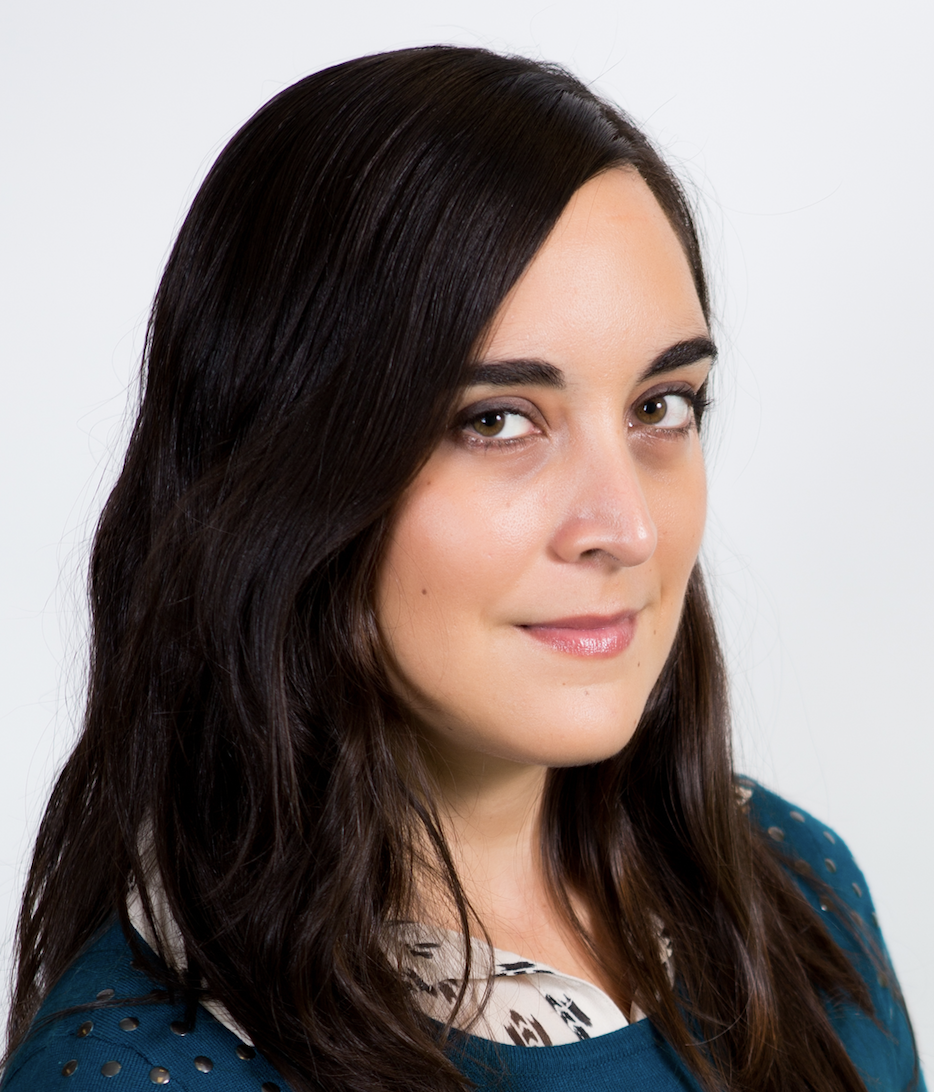
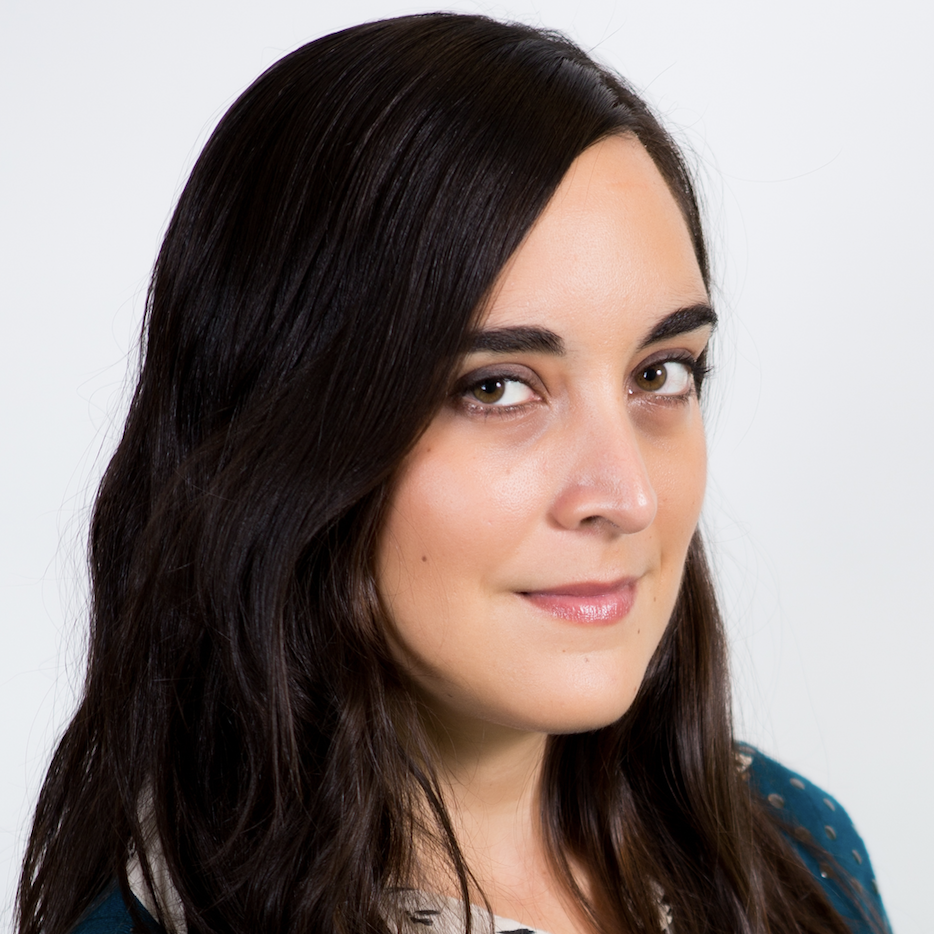
Fixing Lorena's last name and photo

diff --git a/content/ourteam.html b/content/ourteam.html
@@ -389,9 +389,9 @@ type = "default"
           <li class="col-xs-12 col-md-6 col-lg-4">
             <ul class="col-xs-12">
               <li class="img">
-                <img src="/assets/staff-imgs/lorena.png" alt="Lorena Parkman" />
+                <img src="/assets/staff-imgs/lorena.png" alt="Lorena Villa Parkman" />
               </li>
-              <li class="name">Lorena Parkman</li>
+              <li class="name">Lorena Villa Parkman</li>
               <li>Content Designer</li>
                 <a href="https://twitter.com/lvparkman?lang=en"><i class="fa fa-twitter"></i>@lvparkman</a
                 >
